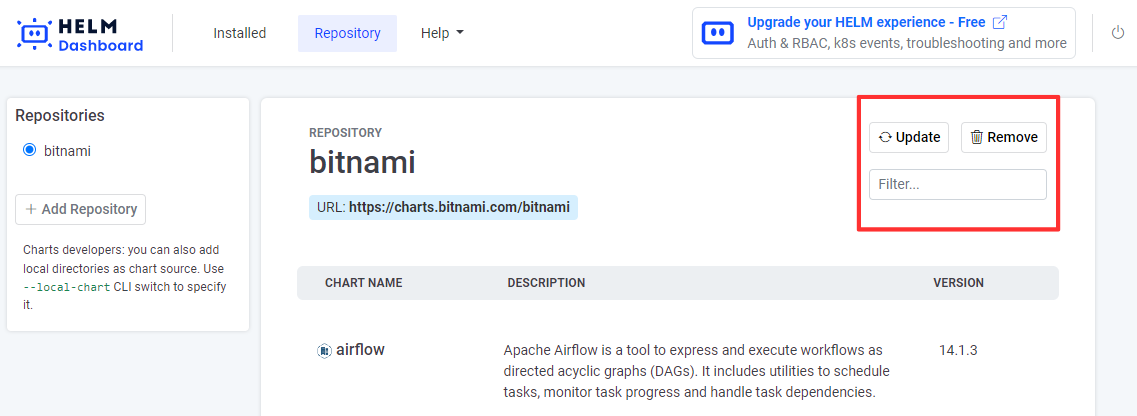
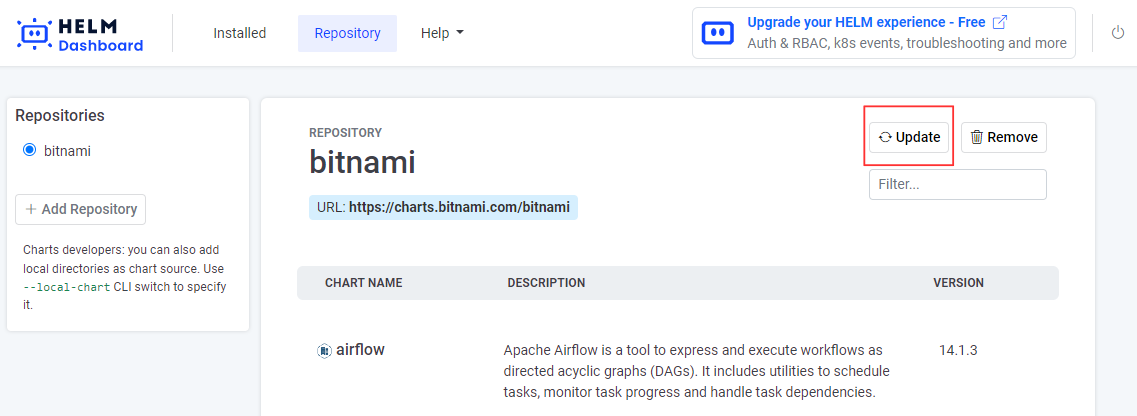
modify doc

Changed region(s): [[0.7388, 0.2188, 0.9543, 0.5625]]

diff --git a/FEATURES.md b/FEATURES.md
@@ -17,9 +17,11 @@ You can add the repository by clicking on 'Add Repository', as shown in the figu
 After completing that step, enter the following data: the repository name and its URL. You can also add the username and password, although this is optional.
 ![Repository2](images/screenshot_repository2.png)
 
-If you want to update your repository, delete it, and then filter your chart, you can do so as shown in the figure.
+Updating means refreshing your repository. You can update your repository as shown in the figure.
 ![Repository4](images/screenshot_repository4.png)
 
+If you want to remove your repository from the Helm dashboard, click on the 'Remove' button as shown in the figure.
+![Repository5](images/screenshot_repository5.png)
 
-
-
+If you want to install a particular chart from the list of available charts, use the filter as shown in the figure.
+![Repository6](images/screenshot_repository6.png)
